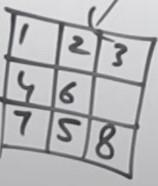
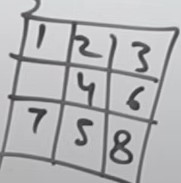
사진 자료 및 표 표출 확인

diff --git a/8_star_인도아저씨.md b/8_star_인도아저씨.md
@@ -1,49 +1,95 @@
-![인도아저씨](인도아저씨 사진 자료/인도아저씨_1.jpg)
+![인도아저씨](사진_자료/인도아저씨_1.jpg)
 
 1.	Mismatched Count
 R = 3{4, 5, 8이 Goal과 다른 상황}
 2.	빈칸이 움직일 수 있는 부분에 대해서 계산
 위 상황에서는 상, 우, 하 3방향으로 이동 가능한 상황
- 
-![인도아저씨](인도아저씨 사진 자료/인도아저씨_2.jpg)
+
+---
+
+![인도아저씨](사진_자료/인도아저씨_2.jpg)
 
 UP. 상 방향 이동 시
 ![인도아저씨](사진_자료/인도아저씨_3.jpg)
-![시작_페이지.jpg](UI/시작_페이지.jpg)
 |   | 2 | 3 |
 |---|---|---|
 | 1 | 4 | 6 |
 | 7 | 5 | 8 |
 
 DOWN. 하 방향 이동 시
-![인도아저씨](인도아저씨 사진 자료/인도아저씨_4.jpg)
+![인도아저씨](사진_자료/인도아저씨_4.jpg)
 | 1 | 2 | 3 |
 |---|---|---|
 | 7 | 4 | 6 |
 |   | 5 | 8 |
 
 RGIHT. 우 방향 이동 시
-![인도아저씨](인도아저씨 사진 자료/인도아저씨_5.jpg)
+![인도아저씨](사진_자료/인도아저씨_5.jpg)
+| 1 | 2 | 3 |
+|---|---|---|
+| 4 |   | 6 |
+| 7 | 5 | 8 |
+
+---
 
 휴리스틱을 사용하면 가장 최고의 값이 어떤 것인지 알 수 있다.
 휴리스틱 값을 계산 해보겠다.
 
 [UP. 상 방향 이동 시]: misplaced된 값의 개수: 4(공백은 세지 않는다)
-![인도아저씨](인도아저씨 사진 자료/인도아저씨_6.jpg)
+![인도아저씨](사진_자료/인도아저씨_6.jpg)
+|   | 2 | 3 |
+|---|---|---|
+| 1 | 4 | 6 |
+| 7 | 5 | 8 |
+
+
 [DOWN. 하 방향 이동 시]: misplaced된 값의 개수: 4
-![인도아저씨](인도아저씨 사진 자료/인도아저씨_7.jpg)
+![인도아저씨](사진_자료/인도아저씨_7.jpg)
+| 1 | 2 | 3 |
+|---|---|---|
+| 7 | 4 | 6 |
+|   | 5 | 8 |
+
 [RGIHT. 우 방향 이동 시]: misplaced된 값의 개수: 2[가장 작은 값] – 휴리스틱 결과[2]
 휴리스틱이 작다는 것은 가장 빠른 길이라는 의미이다.
-![인도아저씨](인도아저씨 사진 자료/인도아저씨_8.jpg)
+![인도아저씨](사진_자료/인도아저씨_8.jpg)
+| 1 | 2 | 3 |
+|---|---|---|
+| 4 |   | 6 |
+| 7 | 5 | 8 |
 
-![인도아저씨](인도아저씨 사진 자료/인도아저씨_9.jpg)
+---
+
+![인도아저씨](사진_자료/인도아저씨_9.jpg)
+
 가.	하방향 1[이걸로 간다]
-![인도아저씨](인도아저씨 사진 자료/인도아저씨_10.jpg)
-나.	우방향 3
-![인도아저씨](인도아저씨 사진 자료/인도아저씨_11.jpg)
-다.	좌방향 3
-![인도아저씨](인도아저씨 사진 자료/인도아저씨_12.jpg)
-라.	상방향 3
-![인도아저씨](인도아저씨 사진 자료/인도아저씨_13.jpg)
+![인도아저씨](사진_자료/인도아저씨_10.jpg)
+| 1 | 2 | 3 |
+|---|---|---|
+| 4 | 5 | 6 |
+| 7 |   | 8 |
 
-![인도아저씨](인도아저씨 사진 자료/인도아저씨_14.jpg)
+나.	우방향 3
+![인도아저씨](사진_자료/인도아저씨_11.jpg)
+| 1 | 2 | 3 |
+|---|---|---|
+| 4 |   | 6 |
+| 7 | 5 | 8 |
+
+다.	좌방향 3
+![인도아저씨](사진_자료/인도아저씨_12.jpg)
+| 1 | 2 | 3 |
+|---|---|---|
+| 4 |   | 6 |
+| 7 | 5 | 8 |
+
+라.	상방향 3
+![인도아저씨](사진_자료/인도아저씨_13.jpg)
+| 1 |   | 3 |
+|---|---|---|
+| 4 | 2 | 6 |
+| 7 | 5 | 8 |
+
+---
+
+![인도아저씨](사진_자료/인도아저씨_14.jpg)
